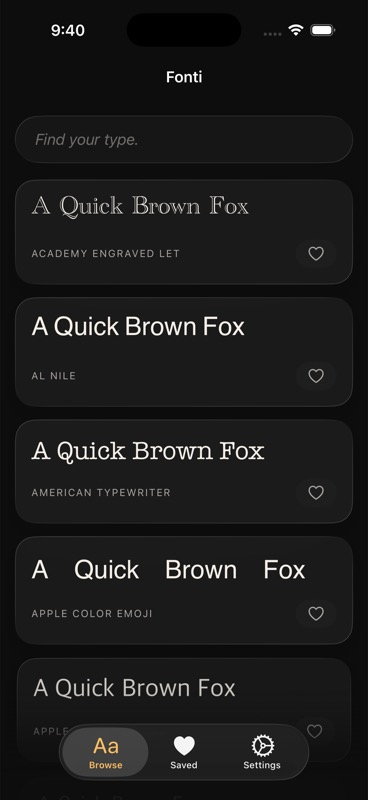
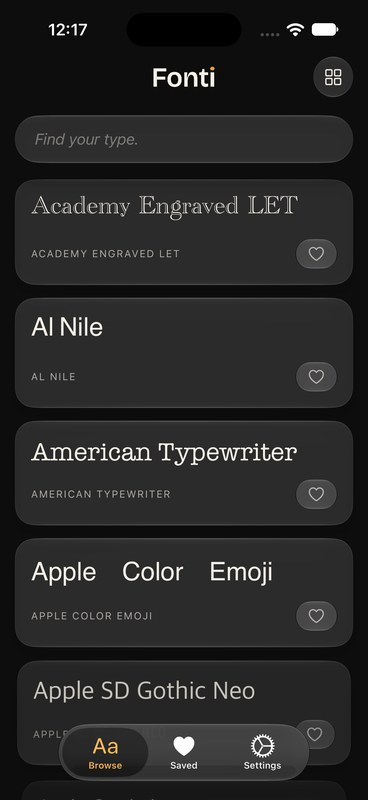
docs: refresh the README screenshots
The old three were from June and predated the wordmark, the system tab
bar, specimen templates, backgrounds and pairings — Browse still showed
the hand-rolled floating bar.

New set is Browse, the full-screen specimen and Compare, captured on
iPhone 17 and scaled to the same 368x800 as the existing files. Saved
drops out of the lineup; Compare earns the slot, being the screen that
best shows what the app is for.

diff --git a/README.md b/README.md
@@ -16,8 +16,8 @@ Fonti renders *your* words in every font on the device. Type a line and the whol
 
 <p align="center">
   <img src="docs/screenshots/01-browse.jpg" width="180" alt="Browse" />
-  <img src="docs/screenshots/02-saved.jpg" width="180" alt="Saved" />
-  <img src="docs/screenshots/03-preview.jpg" width="180" alt="Full screen preview" />
+  <img src="docs/screenshots/02-preview.jpg" width="180" alt="Full screen preview" />
+  <img src="docs/screenshots/03-compare.jpg" width="180" alt="Compare" />
   <img src="docs/screenshots/04-settings.jpg" width="180" alt="Settings" />
 </p>
 
